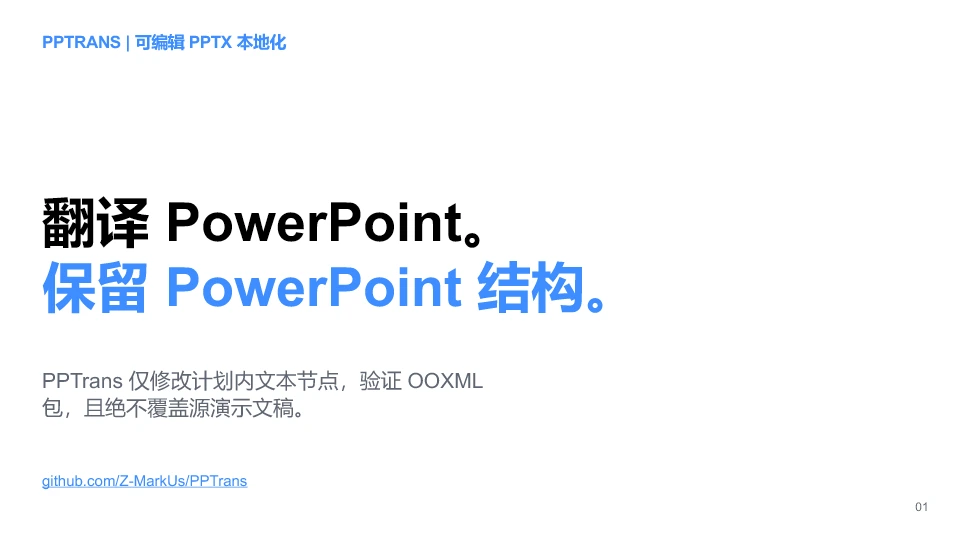
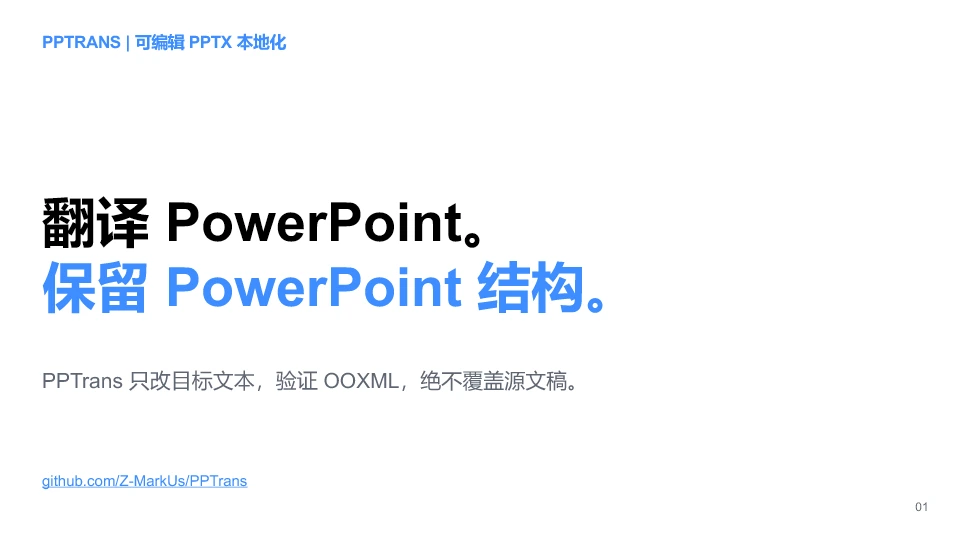
Polish curated demo typography

Changed region(s): [[0.0312, 0.6815, 0.5938, 0.7704]]

diff --git a/scripts/build_curated_demo.py b/scripts/build_curated_demo.py
@@ -29,7 +29,7 @@ CURATED_TRANSLATIONS: Final[Mapping[str, str]] = {
     "Translate PowerPoint.\n": "翻译 PowerPoint。\n",
     "Preserve the PowerPoint.": "保留 PowerPoint 结构。",
     "PPTrans patches only planned text nodes, verifies the package, and never overwrites "
-    "the source deck.": "PPTrans 仅修改计划内文本节点，验证 OOXML 包，且绝不覆盖源演示文稿。",
+    "the source deck.": "PPTrans 只改目标文本，验证 OOXML，绝不覆盖源文稿。",
     "github.com/Z-MarkUs/PPTrans": "github.com/Z-MarkUs/PPTrans",
     "01": "01",
     "A translation becomes a verified transaction": "让翻译成为可验证事务",
@@ -38,7 +38,7 @@ CURATED_TRANSLATIONS: Final[Mapping[str, str]] = {
     ),
     "Inspect": "检查",
     "Stable shape IDs and source hashes locate every editable text span.": (
-        "稳定的形状 ID 与源哈希定位每个可编辑文本片段。"
+        "形状 ID 与源哈希定位可编辑文本。"
     ),
     "02": "02",
     "Translate": "翻译",
@@ -48,7 +48,7 @@ CURATED_TRANSLATIONS: Final[Mapping[str, str]] = {
     "03": "03",
     "Verify": "验证",
     "Only planned text nodes may change before the output is published atomically.": (
-        "输出原子发布前，只允许修改计划内文本节点。"
+        "发布前，只改目标文本。"
     ),
     "Structure stays fixed while text changes": "文本改变，结构不变",
     "This synthetic fixture exercises rich text, tables, Unicode, numbers, and literal "
